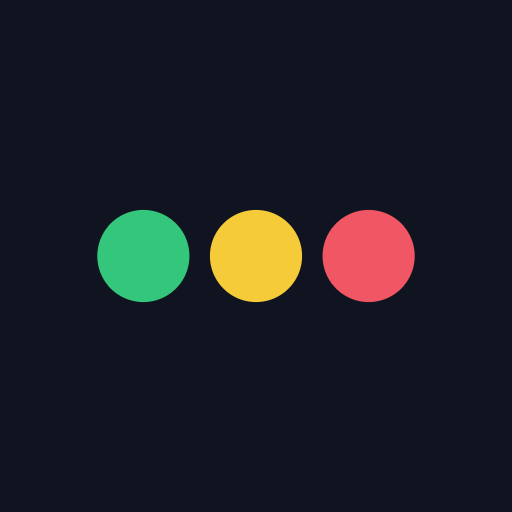
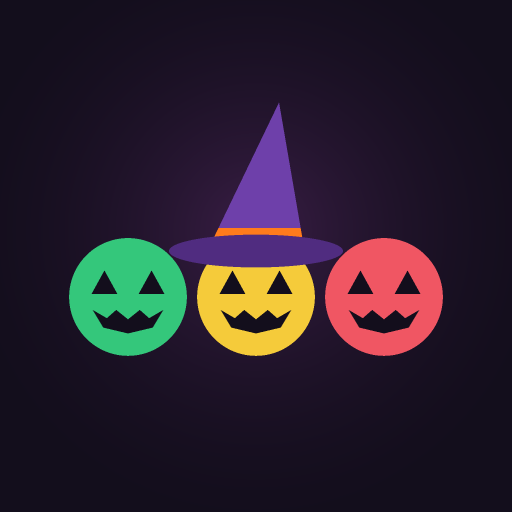
Halloween theme, time wheel and required gamertag

Changed region(s): [[0.125, 0.1875, 0.875, 0.7188]]

diff --git a/index.html b/index.html
@@ -10,39 +10,34 @@
 <meta name="apple-mobile-web-app-capable" content="yes">
 <meta name="apple-mobile-web-app-title" content="Squad">
 <meta name="apple-mobile-web-app-status-bar-style" content="black-translucent">
-<meta name="theme-color" content="#f6f7fa" media="(prefers-color-scheme: light)">
-<meta name="theme-color" content="#101320" media="(prefers-color-scheme: dark)">
+<meta name="theme-color" content="#130e1c">
 <link rel="preconnect" href="https://fonts.googleapis.com">
-<link rel="stylesheet" href="https://fonts.googleapis.com/css2?family=Chakra+Petch:wght@600&family=Figtree:wght@400;500;600&display=swap">
+<link rel="stylesheet" href="https://fonts.googleapis.com/css2?family=Creepster&family=Figtree:wght@400;500;600&display=swap">
 <style>
-/* Layout: one quiet centered column — the question, three colored buttons, who's in, a thin week strip */
+/* Halloween night: one quiet centered column under a pumpkin-glow sky.
+   Deliberately dark in both system themes. */
 :root {
-  --bg: #f6f7fa;
-  --ink: #161b2e;
-  --muted: #8a91a6;
-  --line: #e3e6ee;
-  --yes: #1fa463;
-  --maybe: #f2c21b;
-  --no: #e0434f;
-  --on-yes: #ffffff;
-  --on-maybe: #2a2100;
-  --on-no: #ffffff;
-  --font-display: "Chakra Petch", "Trebuchet MS", system-ui, sans-serif;
+  --bg: #130e1c;        /* night purple */
+  --glow: #4a2410;      /* pumpkin light at the top of the sky */
+  --ink: #f3ece2;       /* candle-wax white */
+  --muted: #8f8499;
+  --line: #2c2238;
+  --pumpkin: #ff7b1c;
+  --yes: #7fd858;       /* slime green */
+  --maybe: #ffc13b;     /* candle yellow */
+  --no: #ee3f52;        /* blood red */
+  --on-yes: #102207;
+  --on-maybe: #2b1d00;
+  --on-no: #2a050a;
+  --font-display: "Creepster", "Trebuchet MS", system-ui, sans-serif;
   --font-body: "Figtree", system-ui, -apple-system, "Segoe UI", sans-serif;
-  color-scheme: light;
-}
-@media (prefers-color-scheme: dark) {
-  :root {
-    --bg: #101320; --ink: #eceef6; --muted: #7d849c; --line: #262b3f;
-    --yes: #34c77b; --maybe: #f5cb3a; --no: #f05663;
-    --on-yes: #06200f; --on-maybe: #2a2100; --on-no: #2a070b;
-    color-scheme: dark;
-  }
+  color-scheme: dark;
 }
 * { box-sizing: border-box; }
 html { -webkit-text-size-adjust: 100%; }
 body {
-  margin: 0; background: var(--bg); color: var(--ink); font-family: var(--font-body); font-size: 15px; line-height: 1.5;
+  margin: 0; min-height: 100vh; color: var(--ink);
+  background: radial-gradient(ellipse 130% 45% at 50% -8%, var(--glow), transparent 70%) no-repeat, var(--bg); font-family: var(--font-body); font-size: 15px; line-height: 1.5;
   padding-left: max(16px, env(safe-area-inset-left, 0px));
   padding-right: max(16px, env(safe-area-inset-right, 0px));
   padding-top: calc(env(safe-area-inset-top, 0px) + 40px);
@@ -51,8 +46,12 @@ body {
 }
 [hidden] { display: none !important; }
 .wrap { max-width: 440px; margin: 0 auto; display: flex; flex-direction: column; gap: 36px; }
-.date { font-size: 0.8rem; color: var(--muted); text-transform: uppercase; letter-spacing: 0.1em; text-align: center; margin: 0 0 6px; }
-.ask { font-family: var(--font-display); font-weight: 600; font-size: 1.6rem; text-align: center; margin: 0; text-wrap: balance; }
+.date { font-size: 0.8rem; color: var(--pumpkin); text-transform: uppercase; letter-spacing: 0.12em; text-align: center; margin: 0 0 8px; }
+.ask {
+  font-family: var(--font-display); font-weight: 400; font-size: 2.3rem; line-height: 1.1; letter-spacing: 0.03em;
+  text-align: center; margin: 0; text-wrap: balance; color: var(--pumpkin);
+  text-shadow: 0 0 18px color-mix(in srgb, var(--pumpkin) 45%, transparent);
+}
 
 .choices { display: grid; grid-template-columns: repeat(3, 1fr); gap: 10px; }
 .choice {
@@ -77,7 +76,7 @@ body {
   border: 0; border-bottom: 1px solid var(--line); padding: 6px 4px; border-radius: 0;
 }
 .nick::placeholder { color: var(--muted); }
-.nick.need { border-bottom: 2px solid var(--maybe); }
+.nick.need { border-bottom: 2px solid var(--pumpkin); }
 .status { font-size: 0.8rem; color: var(--muted); text-align: center; min-height: 1.2em; margin: 8px 0 0; }
 .status.err { color: var(--no); }
 
